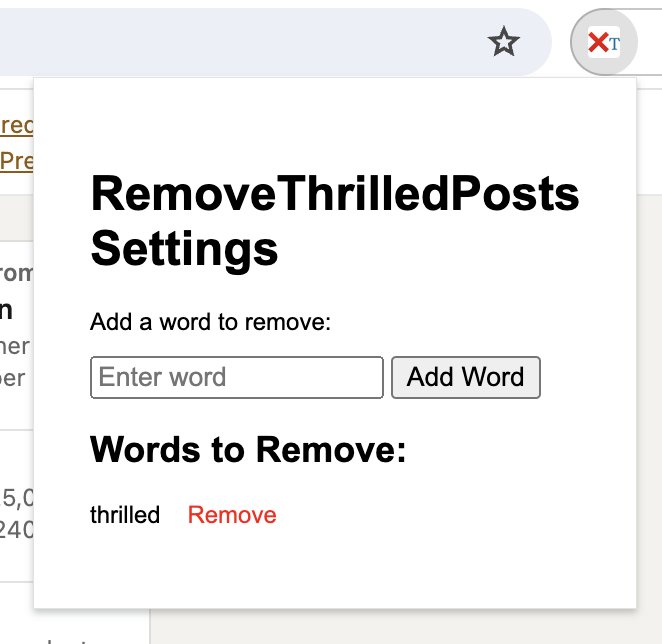
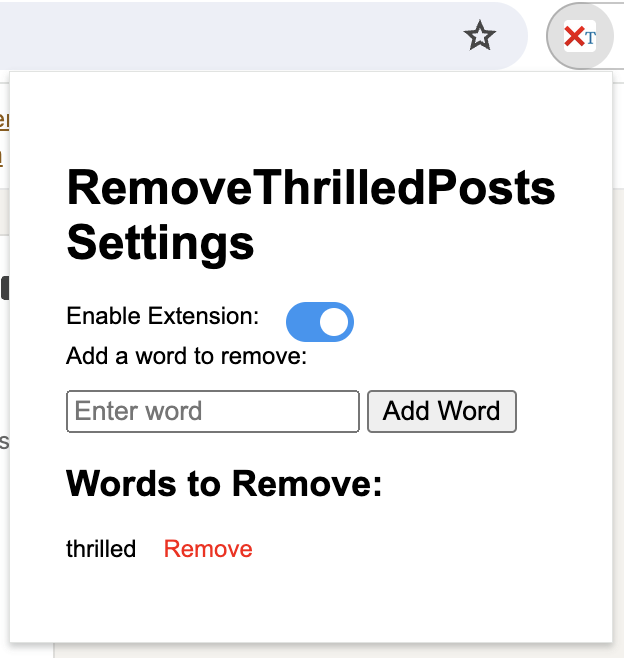
Added disable switch.

diff --git a/options.html b/options.html
@@ -22,16 +22,81 @@
       cursor: pointer;
       margin-left: 10px;
     }
+    .toggle-container {
+      margin-top: 10px;
+    }
+    .toggle-label {
+      display: inline-block;
+      margin-right: 10px;
+    }
+    .switch {
+      position: relative;
+      display: inline-block;
+      width: 34px;
+      height: 20px;
+    }
+
+    .switch input {
+      opacity: 0;
+      width: 0;
+      height: 0;
+    }
+
+    .slider {
+      position: absolute;
+      cursor: pointer;
+      top: 0;
+      left: 0;
+      right: 0;
+      bottom: 0;
+      background-color: #ccc;
+      transition: .4s;
+      border-radius: 20px;
+    }
+
+    .slider:before {
+      position: absolute;
+      content: "";
+      height: 14px;
+      width: 14px;
+      left: 3px;
+      bottom: 3px;
+      background-color: white;
+      transition: .4s;
+      border-radius: 50%;
+    }
+
+    input:checked + .slider {
+      background-color: #2196F3;
+    }
+
+    input:checked + .slider:before {
+      transform: translateX(14px);
+    }
+
   </style>
 </head>
 <body>
-  <h1>RemoveThrilledPosts Settings</h1>
-  <label for="word-input">Add a word to remove:</label>
-  <input type="text" id="word-input" placeholder="Enter word">
-  <button id="add-word">Add Word</button>
-  <h2>Words to Remove:</h2>
-  <ul id="word-list"></ul>
-  <script src="options.js"></script>
+<h1>RemoveThrilledPosts Settings</h1>
+
+<!-- Enable/Disable Switch -->
+<div class="toggle-container">
+  <label class="toggle-label" for="enable-toggle">Enable Extension:</label>
+  <label class="switch">
+    <input type="checkbox" id="enable-toggle">
+    <span class="slider round"></span>
+  </label>
+</div>
+
+<!-- Add Words Section -->
+<label for="word-input">Add a word to remove:</label>
+<input type="text" id="word-input" placeholder="Enter word">
+<button id="add-word">Add Word</button>
+
+<!-- Words List -->
+<h2>Words to Remove:</h2>
+<ul id="word-list"></ul>
+
+<script src="options.js"></script>
 </body>
 </html>
-

diff --git a/options.js b/options.js
@@ -2,11 +2,18 @@
 const wordInput = document.getElementById('word-input');
 const addWordButton = document.getElementById('add-word');
 const wordList = document.getElementById('word-list');
+const enableToggle = document.getElementById('enable-toggle');
 
-// Load existing words
-function loadWords() {
-  chrome.storage.sync.get('words', (data) => {
+// Load existing settings
+function loadSettings() {
+  chrome.storage.sync.get(['words', 'enabled'], (data) => {
     const words = data.words || [];
+    const isEnabled = data.enabled !== false; // Default to enabled if not set
+
+    // Set toggle state
+    enableToggle.checked = isEnabled;
+
+    // Populate word list
     wordList.innerHTML = words.map(word => `
       <li>
         ${word}
@@ -25,7 +32,7 @@ function addWord() {
       if (!words.includes(word)) {
         words.push(word);
         chrome.storage.sync.set({ words }, () => {
-          loadWords();
+          loadSettings();
           wordInput.value = '';
         });
       }
@@ -39,9 +46,15 @@ function removeWord(word) {
     let words = data.words || [];
     words = words.filter(w => w !== word);
     chrome.storage.sync.set({ words }, () => {
-      loadWords();
+      loadSettings();
     });
   });
+}
+
+// Save toggle state
+function saveToggleState() {
+  const isEnabled = enableToggle.checked;
+  chrome.storage.sync.set({ enabled: isEnabled });
 }
 
 // Event listeners
@@ -52,6 +65,7 @@ wordList.addEventListener('click', (event) => {
     removeWord(word);
   }
 });
+enableToggle.addEventListener('change', saveToggleState);
 
-// Load words on page load
-loadWords();
+// Load settings on page load
+loadSettings();

diff --git a/content.js b/content.js
@@ -1,6 +1,8 @@
 // Function to remove posts based on a list of words (case-insensitive and with word boundaries) and log the removed posts
 function removePosts() {
-  chrome.storage.sync.get('words', (data) => {
+  chrome.storage.sync.get(['words', 'enabled'], (data) => {
+    if (data.enabled === false) return; // Do nothing if disabled
+
     const words = data.words || [];
     if (words.length === 0) return;
 
@@ -15,7 +17,7 @@ function removePosts() {
       if (patterns.some(pattern => pattern.test(textContent))) {
         // Log the removed post's content to the console
         console.log('Removed post:', textContent);
-        
+
         // Remove the post from the DOM
         post.remove();
       }
@@ -35,4 +37,3 @@ observer.observe(document.body, { childList: true, subtree: true });
 
 // Initial call
 removePosts();
-

diff --git a/README.md b/README.md
@@ -12,26 +12,20 @@
 
 ## Installation
 
-1. **Clone the repository** (or download the source code):
-   ```bash
-   git clone https://github.com/your-username/removethrilledposts.git
-   ```
+1. Download the sources and unzip. 
 
-2. Navigate to the extension directory:
-  cd linkedin-post-filter
+2. Open Chrome and go to chrome://extensions/.
 
-3. Open Chrome and go to chrome://extensions/.
+3. Enable Developer Mode by toggling the switch in the top right corner.
 
-4. Enable Developer Mode by toggling the switch in the top right corner.
-
-5. Click "Load unpacked" and select the directory where your manifest.json and content.js files are located.
+5. Click "Load unpacked" and select the directory.
 
 The extension is now installed and will start filtering LinkedIn posts containing the word "thrilled".
 
 ## Usage
 
 Navigate to LinkedIn and view your feed.
-Posts containing "Thrilled" will be automatically removed.
+Posts containing "thrilled" will be automatically removed.
 
 ## License
 This project is licensed under the MIT License.
